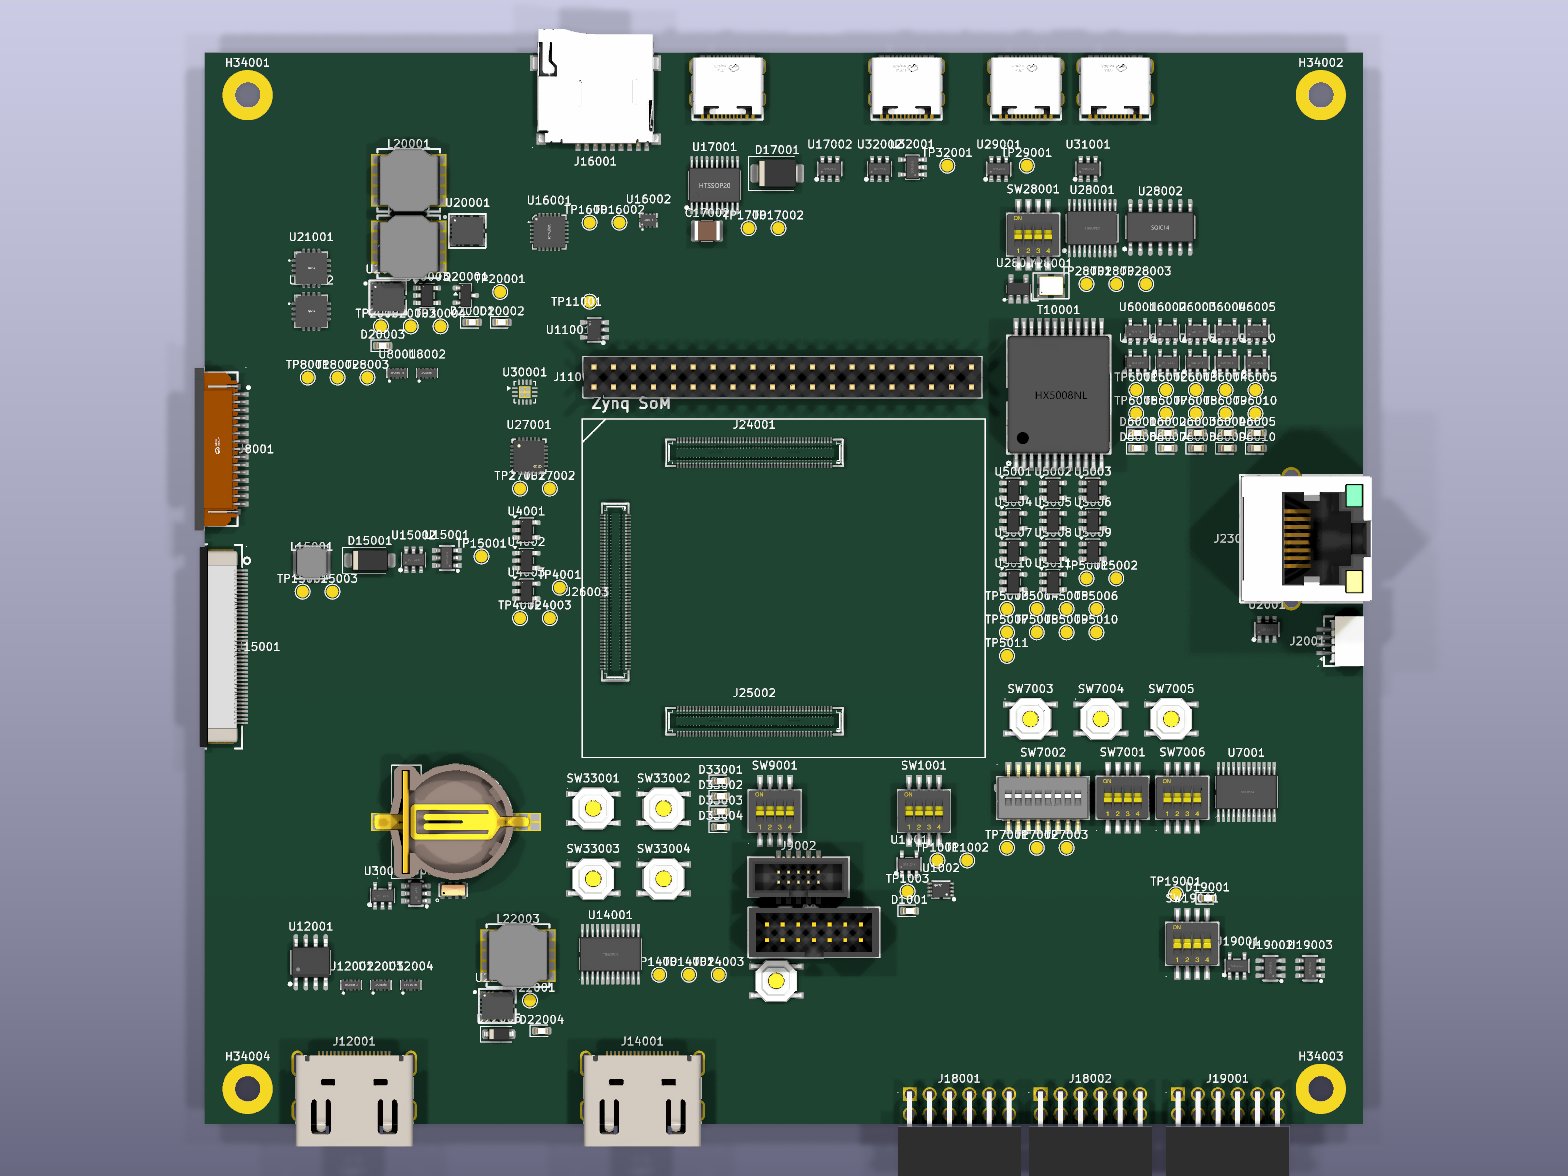
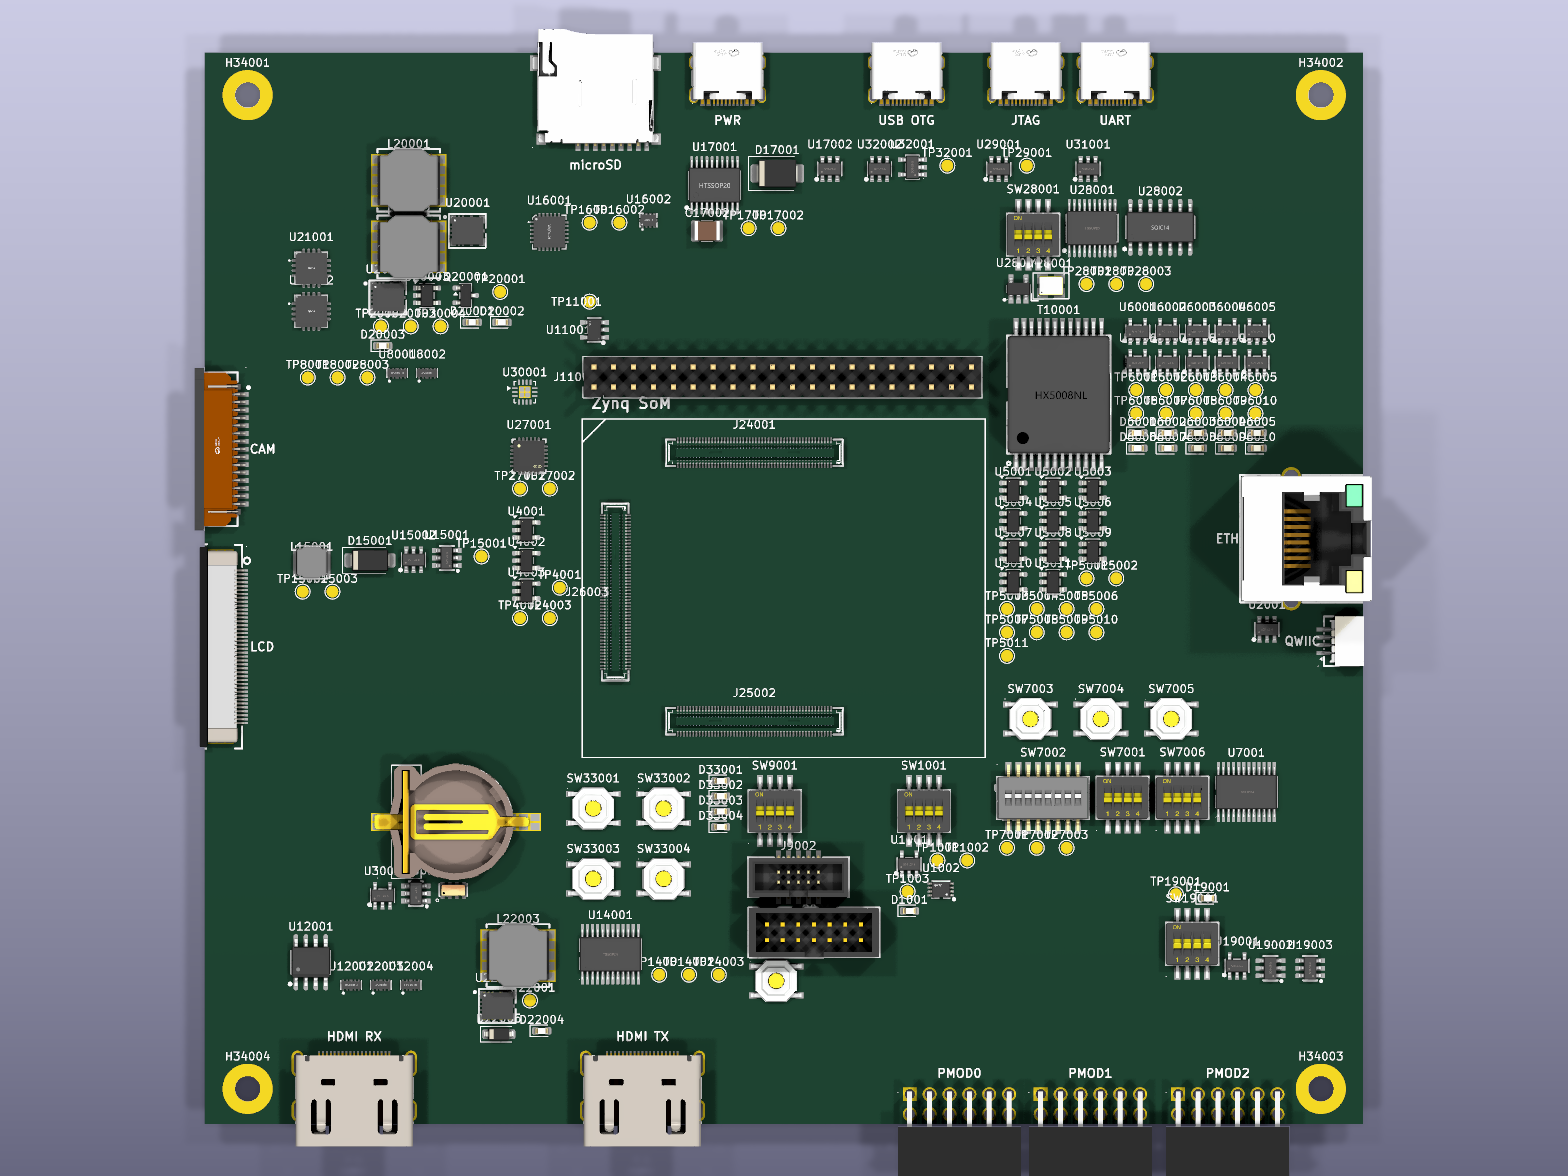
feat: short FUNCTION descriptor on silk beside every off-board connector
User: "very short descriptors for each connector so we know which connector is for
what." Added a programmatic top-silk label per off-board connector, derived from its
subsystem sheet (never hand-placed):
  PWR (USB-C PD in) · USB OTG · JTAG · UART · microSD · HDMI TX · HDMI RX · ETH ·
  QWIIC · CAM · LCD · PMOD0/1/2
placed just inboard of the connector courtyard, centred on its along-edge axis.

The connector's J-ref is HIDDEN on silk (the function label owns the clear spot — the
ref was the space competitor; it stays in the footprint data for the netlist/BOM).
This is the dev-board idiom: label connectors by FUNCTION, not "J17001".

Implementation (schgen/generate/pcb.py): _CONN_DESC (sheet->label) + the PMODs
numbered in ref order; _connector_descriptors() emits the gr_text labels (F.SilkS,
size 1.1) and emit_pcb appends them; _embed_footprint hides the Reference property
for CONN_MATING_FACE parts. Verified silk-only AND 3D render per edge — all 14 labels
read cleanly, no overlap (the earlier "clutter" was the non-printed F.Fab layer).

Verified: 148x137, DRC 0, BOARD PASS, all gates green, 636 tests pass (+3 new
descriptor tests: all functions present, on-board F.SilkS, connector refs hidden /
IC refs kept).

diff --git a/schgen/generate/pcb.py b/schgen/generate/pcb.py
@@ -1808,6 +1808,18 @@ def _embed_footprint(inst: FootprintInst, uid) -> list:
         if head == Sym("property") and len(node) > 2:
             if node[1] == "Reference":
                 node[2] = inst.ref
+                # OFF-BOARD CONNECTORS: hide the J-ref on silk — the human
+                # FUNCTION label (_connector_descriptors: PWR/JTAG/HDMI/...) is
+                # what the user reads on the board, and the ref clutters the only
+                # clear spot beside the connector. The ref stays in the footprint
+                # data (netlist/BOM), just not printed.
+                if inst.value in CONN_MATING_FACE:
+                    hb = next((x for x in node if isinstance(x, list) and x
+                               and x[0] == Sym("hide")), None)
+                    if hb is None:
+                        node.insert(3, [Sym("hide"), Sym("yes")])
+                    else:
+                        hb[1] = Sym("yes")
             elif node[1] == "Value":
                 node[2] = inst.value
             _restamp_uuid(node, uid(f"fp:{inst.ref}:prop:{prop_seq}"))
@@ -2058,6 +2070,76 @@ def _som_body_silk(box: tuple[float, float, float, float], uid) -> list:
     return out
 
 
+# Short, human silk descriptor per off-board connector SHEET — so the bare board
+# is self-documenting ("which connector is which"). Keyed on the subsystem sheet
+# (1:1 with each connector's function); the 3 PMOD ports are numbered below.
+_CONN_DESC: dict[str, str] = {
+    "pd_input":            "PWR",        # USB-C PD power inlet (the only power-in)
+    "usbc_otg":            "USB OTG",    # USB 2.0 OTG data port
+    "usb_jtag_connector":  "JTAG",       # USB->JTAG debug/program bridge (CH347T)
+    "usb_uart_connector":  "UART",       # USB->UART serial console (CP2102N)
+    "microsd":             "microSD",    # microSD card slot
+    "hdmi_tx":             "HDMI TX",    # HDMI source
+    "hdmi_rx":             "HDMI RX",    # HDMI sink
+    "rj45_connector":      "ETH",        # 10/100 Ethernet
+    "board_qwiic":         "QWIIC",      # QWIIC/Stemma I2C
+    "camera":              "CAM",        # CSI camera FFC
+    "lcd":                 "LCD",        # display FFC
+    "pmod":                "PMOD",       # PMOD GPIO (numbered)
+    "pmod_expansion":      "PMOD",       # PMOD GPIO (numbered)
+}
+
+
+def _connector_descriptors(model: "PcbModel", uid) -> list:
+    """A short F.SilkS function label beside every OFF-BOARD connector (PWR / USB
+    OTG / JTAG / UART / HDMI TX-RX / ETH / microSD / QWIIC / CAM / LCD / PMODn),
+    so the bare board tells you which connector is which. Placed just INBOARD of
+    the connector courtyard, centred on its along-edge axis, on the top silk.
+    Programmatic: the label comes from the connector's subsystem sheet, the edge
+    from its courtyard's nearest board edge — never hand-placed."""
+    out: list = []
+    ex0, ey0 = ORIGIN_X, ORIGIN_Y
+    ex1, ey1 = ORIGIN_X + model.board_w, ORIGIN_Y + model.board_h
+    # number the PMOD ports PMOD0/1/2 in ref order (they span two sheets)
+    pmods = sorted(i.ref for i in model.insts if i.value == "DS1024-2x6R2")
+    pmod_n = {ref: n for n, ref in enumerate(pmods)}
+    for inst in model.insts:
+        if inst.value not in CONN_MATING_FACE:
+            continue
+        desc = _CONN_DESC.get(inst.sheet)
+        if desc is None:
+            continue
+        if inst.ref in pmod_n:
+            desc = f"PMOD{pmod_n[inst.ref]}"
+        cx0, cy0, cx1, cy1 = _inst_courtyard(inst)
+        # nearest board edge = the connector's mating edge
+        d = {"N": cy0 - ey0, "S": ey1 - cy1, "W": cx0 - ex0, "E": ex1 - cx1}
+        edge = min(d, key=d.get)
+        if d[edge] > 12.0:                 # not actually an edge connector — skip
+            continue
+        midx, midy = (cx0 + cx1) / 2.0, (cy0 + cy1) / 2.0
+        # place the label just INBOARD of the courtyard — the connector's own
+        # J-ref is hidden (see _embed_footprint), so this clear spot is the
+        # function label's; the subsystem components sit further inboard.
+        g = 1.8
+        if edge == "N":
+            tx, ty = midx, cy1 + g
+        elif edge == "S":
+            tx, ty = midx, cy0 - g
+        elif edge == "W":
+            tx, ty = cx1 + g, midy
+        else:                              # E
+            tx, ty = cx0 - g, midy
+        out.append([Sym("gr_text"), desc,
+                    [Sym("at"), round(tx, 3), round(ty, 3), 0],
+                    [Sym("layer"), "F.SilkS"],
+                    [Sym("uuid"), uid(f"conn-desc:{inst.ref}")],
+                    [Sym("effects"),
+                     [Sym("font"), [Sym("size"), 1.1, 1.1],
+                      [Sym("thickness"), 0.2]]]])
+    return out
+
+
 def _som_keepout_zone(box: tuple[float, float, float, float], uid) -> list:
     """A rule-area MARKER over the SoM body on both copper layers (drawn in the
     ratsnest view + KiCad as a hatched region). It is PERMISSIVE: under an SMD
@@ -2154,6 +2236,9 @@ def emit_pcb(model: PcbModel, out_path: Path) -> Path:
     # footprints (fixed ref order — determinism)
     for inst in model.insts:
         doc.append(_embed_footprint(inst, uid))
+
+    # short function label beside each off-board connector (self-documenting board)
+    doc.extend(_connector_descriptors(model, uid))
 
     out_path.parent.mkdir(parents=True, exist_ok=True)
     out_path.write_text(sexpr.dumps(doc) + "\n")

diff --git a/schgen/tests/test_connector_descriptors.py b/schgen/tests/test_connector_descriptors.py
@@ -1,0 +1,64 @@
+"""Every off-board connector gets a short FUNCTION descriptor on the top silk
+(PWR / USB OTG / JTAG / UART / HDMI TX-RX / ETH / microSD / QWIIC / CAM / LCD /
+PMODn) so the bare board is self-documenting, and its J-ref is hidden so the
+label owns the clear spot beside the connector. (schgen.generate.pcb.)
+"""
+
+from __future__ import annotations
+
+from schgen.generate import pcb
+
+
+def _node_field(node, name):
+    for sub in node:
+        if isinstance(sub, list) and sub and str(sub[0]) == name:
+            return sub
+    return None
+
+
+def test_every_offboard_connector_function_label_present():
+    m = pcb.build_model(True)
+    labels = pcb._connector_descriptors(m, lambda k: "u")
+    texts = [str(n[1]) for n in labels]
+    # the full set of function labels the user reads on the board
+    for want in ("PWR", "USB OTG", "JTAG", "UART", "HDMI TX", "HDMI RX",
+                 "ETH", "microSD", "QWIIC", "CAM", "LCD",
+                 "PMOD0", "PMOD1", "PMOD2"):
+        assert want in texts, f"missing connector descriptor {want!r}: {texts}"
+    # one label per placed off-board connector with a known sheet
+    n_off = sum(1 for i in m.insts
+                if i.value in pcb.CONN_MATING_FACE and i.sheet in pcb._CONN_DESC)
+    assert len(labels) == n_off, (len(labels), n_off)
+
+
+def test_descriptors_on_top_silk_and_on_board():
+    m = pcb.build_model(True)
+    ex0, ey0 = pcb.ORIGIN_X, pcb.ORIGIN_Y
+    ex1, ey1 = ex0 + m.board_w, ey0 + m.board_h
+    for n in pcb._connector_descriptors(m, lambda k: "u"):
+        layer = _node_field(n, "layer")
+        assert layer is not None and layer[1] == "F.SilkS", n
+        at = _node_field(n, "at")
+        assert at is not None
+        x, y = float(at[1]), float(at[2])
+        assert ex0 <= x <= ex1 and ey0 <= y <= ey1, (n[1], x, y)
+
+
+def test_offboard_connector_ref_hidden_in_emitted_board(tmp_path):
+    """The off-board connector J-refs are HIDDEN on silk (function label replaces
+    them); a non-connector IC keeps its visible ref."""
+    import re
+    m = pcb.build_model(True)
+    pcb.emit_pcb(m, tmp_path / "b.kicad_pcb")
+    s = (tmp_path / "b.kicad_pcb").read_text()
+
+    def ref_hidden(ref: str) -> bool:
+        i = s.find(f'"{ref}"')
+        blk = s[max(0, i - 1400):i + 200]
+        mm = re.search(r'\(property\s*\n?\s*"Reference"(.*?)\)\s*\n\s*\(property',
+                       blk, re.S)
+        return bool(mm and "(hide yes)" in mm.group(1))
+
+    assert ref_hidden("J17001"), "USB-C connector ref must be hidden"
+    assert ref_hidden("J23001"), "RJ45 connector ref must be hidden"
+    assert not ref_hidden("U17001"), "a non-connector IC ref must stay visible"
